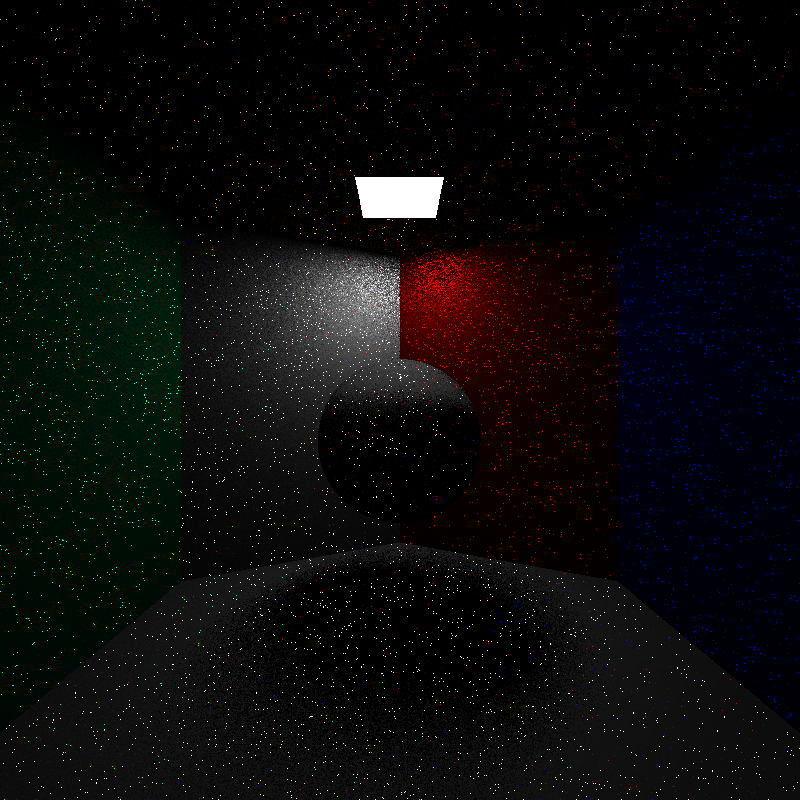
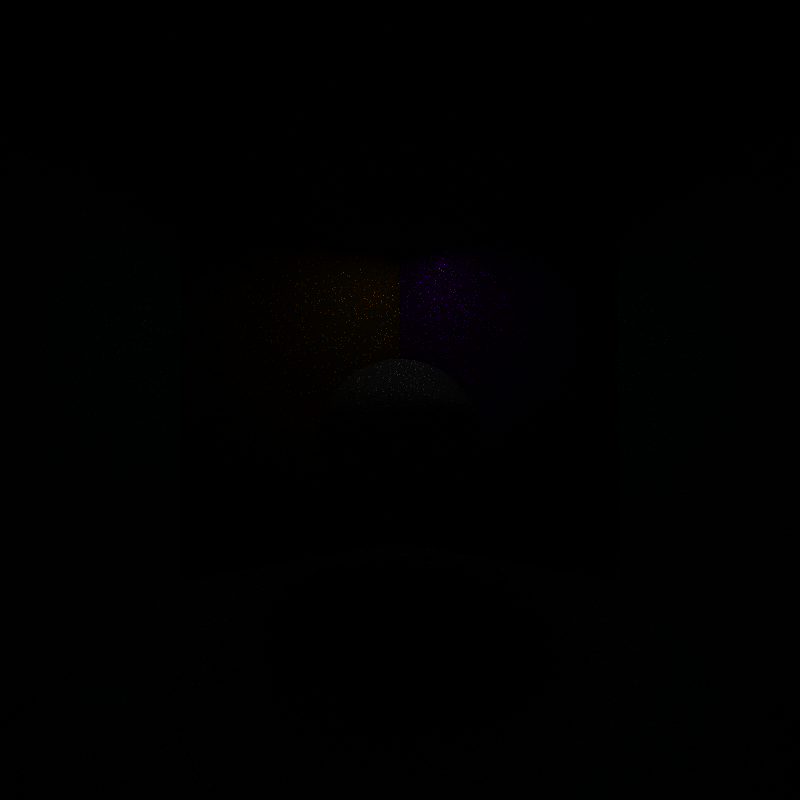
Added normalization, still no good results

Changed region(s): [[0.0938, 0.3125, 0.6875, 0.5625], [0.2812, 0.6562, 0.6875, 0.8438], [0.4375, 0.2188, 0.5625, 0.2812]]

diff --git a/scene/Camera.java b/scene/Camera.java
@@ -61,6 +61,10 @@ public class Camera extends Thread {
   public ColorRGB computeRadianceFlow(Ray ray, Scene scene) {
 
 
+    int depth = ray.depth;
+
+    double scalingFactor = 1.0;
+
     if (ray.hitObj == null) {
       ray.setRadiance(new ColorRGB(0, 0, 0));
     }
@@ -70,8 +74,7 @@ public class Camera extends Thread {
     }
 
     else if (ray.hitObj.material.type == MaterialType.LAMBERTIAN) {
-  
-        ray.setRadiance(ray.hitObj.calculateDirectLight(scene.light, ray.intersectPoint, 10, scene.sceneObjects));
+      ray.setRadiance(ray.hitObj.calculateDirectLight(scene.light, ray.intersectPoint, 5, scene.sceneObjects));
     }
 
     while (ray.parent != null) {
@@ -82,17 +85,15 @@ public class Camera extends Thread {
       // Sum these together
       // Store in ray and go to next parent
 
-      if (ray.parent.hitObj.material.type == MaterialType.LAMBERTIAN) {
 
         ColorRGB indirect = ray.parent.hitObj.color.mult(ray.radiance).mult(ray.hitObj.material.reflectCoeff);
 
-
-        ColorRGB direct = ray.parent.hitObj.calculateDirectLight(scene.light, ray.parent.intersectPoint, 2,
+        ColorRGB direct = ray.parent.hitObj.calculateDirectLight(scene.light, ray.parent.intersectPoint, 5,
             scene.sceneObjects);
         ColorRGB sum = direct.add(indirect);
         ray.parent.setRadiance(sum);
 
-      }
+
 
       // ** If mirror **
       // Copy value from parent ray
@@ -104,13 +105,16 @@ public class Camera extends Thread {
       ray = ray.parent;
     }
 
-    return ray.radiance;
+    scalingFactor = depth > 0 ? (1 / (double) depth) : 1;
+
+    ColorRGB scaled = ray.radiance.mult(scalingFactor);
+
+    return scaled;
   }
 
   public Ray buildRayPath(Scene scene, Vertex currentPoint, Ray currentRay, Vertex outIntersectionPoint) {
     Ray finalRay = new Ray();
     Ray reflectedRay = new Ray();
-    double P = 0.15;
 
     for (int i = 0; i < scene.sceneObjects.size(); i++) {
       Geometry obj = scene.sceneObjects.get(i);
@@ -124,13 +128,6 @@ public class Camera extends Thread {
 
         currentRay.setHitObject(obj);
         currentRay.setIntersectionPoint(outPoint);
-        if (obj.material.type == MaterialType.LAMBERTIAN) {
-          reflectedRay = obj.getRandomDirection(currentRay, outPoint);
-        }
-
-        else {
-          reflectedRay = obj.bounceRay(currentRay, outPoint);
-        }
         // We are done - traverse ray path and add upp light contribution
         if (((currentRay.depth > 5) || obj.material.type == MaterialType.LIGHT_SOURCE)
             && obj.material.type != MaterialType.MIRROR) {
@@ -142,6 +139,13 @@ public class Camera extends Thread {
 
         // Store hit info in ray and go to next
         else {
+          if (obj.material.type == MaterialType.LAMBERTIAN) {
+            reflectedRay = obj.getRandomDirection(currentRay, outPoint);
+          }
+  
+          else {
+            reflectedRay = obj.bounceRay(currentRay, outPoint);
+          }
           reflectedRay.setParent(currentRay);
           finalRay = buildRayPath(scene, outPoint, reflectedRay, outPoint);
         }
@@ -166,6 +170,8 @@ public class Camera extends Thread {
         width,
         height,
         BufferedImage.TYPE_INT_RGB);
+    double highest_value = 0.0;
+    int counter = 0;
 
     for (int z = -height / 2; z < height / 2; z++) {
 
@@ -184,27 +190,44 @@ public class Camera extends Thread {
 
         Ray tempRay = buildRayPath(scene, currentPoint, currentRay, outIntersectionPoint);
 
-        pixelColor.set(computeRadianceFlow(tempRay, scene));
-        pixelColor = pixelColor.mult(10);
+        ColorRGB calcColor = computeRadianceFlow(tempRay, scene);
 
+        pixelColor.set(calcColor);
 
-        if (pixelColor.r > 0) {
-          // System.out.println("slyna");
+        if (pixelColor.r > highest_value) {
+          highest_value = pixelColor.r;
         }
 
-        if (currentRay.radiance == null) {
-          System.out.println("x");
+        if (pixelColor.g > highest_value) {
+          highest_value = pixelColor.g;
         }
 
-        pixelColor.intColor();
+        if (pixelColor.b > highest_value) {
+          highest_value = pixelColor.b;
+        }
 
-        Color myColour = new Color(pixelColor.ir, pixelColor.ig, pixelColor.ib);
         pixelGrid.add(pixelColor);
-        int rgb = myColour.getRGB();
+      }
+
+    }
+
+    System.out.println("Highest value: " + highest_value);
+
+    for (int z = -height / 2; z < height / 2; z++) {
+      for (int x = -width / 2; x < width / 2; x++) {
+
+        ColorRGB normalized_color = pixelGrid.get(counter).mult(1.0 / highest_value);
+
+        // normalized_color = normalized_color.mult(10);
+        normalized_color.intColor();
+        Color formattedColor = new Color(normalized_color.ir, normalized_color.ig, normalized_color.ib);
+        int rgb = formattedColor.getRGB();
+
         buffer.setRGB(
             (width - 1) - (x + width / 2),
             (height - 1) - (z + height / 2),
             rgb);
+        counter++;
       }
     }
 

diff --git a/scene/Scene.java b/scene/Scene.java
@@ -23,7 +23,7 @@ public class Scene {
     new Vertex(10, 6, -5),
     new Vertex(10, 6, 5),
     new Vertex(0, 6, 5),
-    .0,1.0,0.4
+    0.0,0.7,0.4
   );
 
   Rectangle W2 = new Rectangle(
@@ -31,35 +31,35 @@ public class Scene {
     new Vertex(13, 0, -5),
     new Vertex(13, 0, 5),
     new Vertex(10, 6, 5),
-    1.0,1.0,1.0
+    0.7,0.4,0.0
   );
   Rectangle W3 = new Rectangle(
     new Vertex(13, 0, -5),
     new Vertex(10, -6, -5),
     new Vertex(10, -6, 5),
     new Vertex(13, 0, 5),
-    0.7,0.0,0.0
+    0.4,0.0,0.7
   );
   Rectangle W4 = new Rectangle(
     new Vertex(10, -6, -5),
     new Vertex(0, -6, -5),
     new Vertex(0, -6, 5),
     new Vertex(10, -6, 5),
-    0.0,0.0,0.7
+    0.0,0.7,0.4
   );
   Rectangle W5 = new Rectangle(
     new Vertex(0, -6, -5),
     new Vertex(-3, 0, -5),
     new Vertex(-3, 0, 5),
     new Vertex(0, -6, 5),
-    1.0,0.7,1.0
+    0.7,0.4,0.0
   );
   Rectangle W6 = new Rectangle(
     new Vertex(-3, 0, -5),
     new Vertex(0, 6, -5),
     new Vertex(0, 6, 5),
     new Vertex(-3, 0, 5),
-    1.0,0.7,0.4
+    0.4,0.0,0.7
   );
 
   /**
@@ -70,19 +70,19 @@ public class Scene {
     new Vertex(0, 6, -5),
     new Vertex(0, -6, -5),
     new Vertex(10, -6, -5),
-    1.0,1.0,1.0
+    0.5,0.5,0.5
   );
   Triangle Floor_W2 = new Triangle(
     new Vertex(0, 6, -5),
     new Vertex(-3, 0, -5),
     new Vertex(0, -6, -5),
-    1.0,1.0,1.0
+    0.5,0.5,0.5
   );
   Triangle Floor_W3 = new Triangle(
     new Vertex(10, -6, -5),
     new Vertex(13, 0, -5),
     new Vertex(10, 6, -5),
-    1.0,1.0,1.0
+    0.5,0.5,0.5
   );
 
   /**
@@ -93,19 +93,19 @@ public class Scene {
     new Vertex(10, -6, 5),
     new Vertex(0, -6, 5),
     new Vertex(0, 6, 5),
-    1.0,0.7,0.4
+    0.5,0.5,0.5
   );
   Triangle Roof_W2 = new Triangle(
     new Vertex(0, 6, 5),
     new Vertex(0, -6, 5),
     new Vertex(-3, 0, 5),
-    1.0,0.7,0.4
+    0.5,0.5,0.5
   );
   Triangle Roof_W3 = new Triangle(
     new Vertex(10, 6, 5),
     new Vertex(13, 0, 5),
     new Vertex(10, -6, 5),
-    1.0,0.7,0.4
+    0.5,0.5,0.5
   );
 
   /**

diff --git a/geometry/Material.java b/geometry/Material.java
@@ -10,7 +10,7 @@ public class Material {
     public MaterialType type;
 
     public Material() {
-        this.reflectCoeff = 0.1f;
+        this.reflectCoeff = 0.5f;
         this.n = 1.0f;
         this.roughness = 1.0f;
         this.type = MaterialType.LAMBERTIAN;
